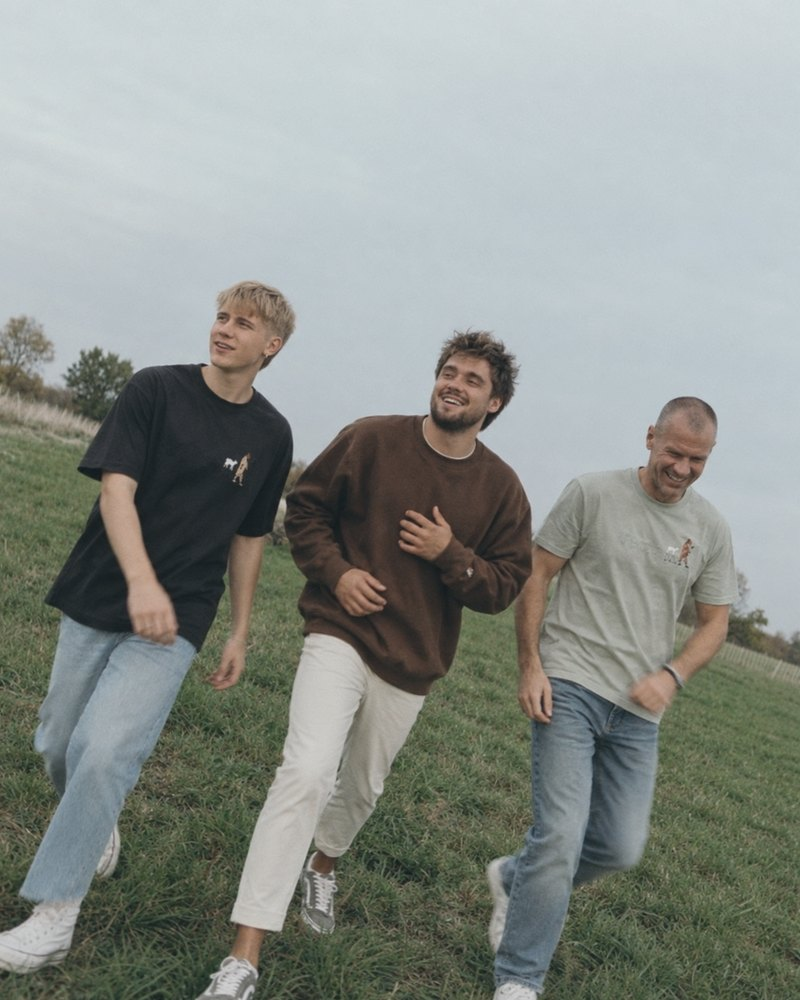
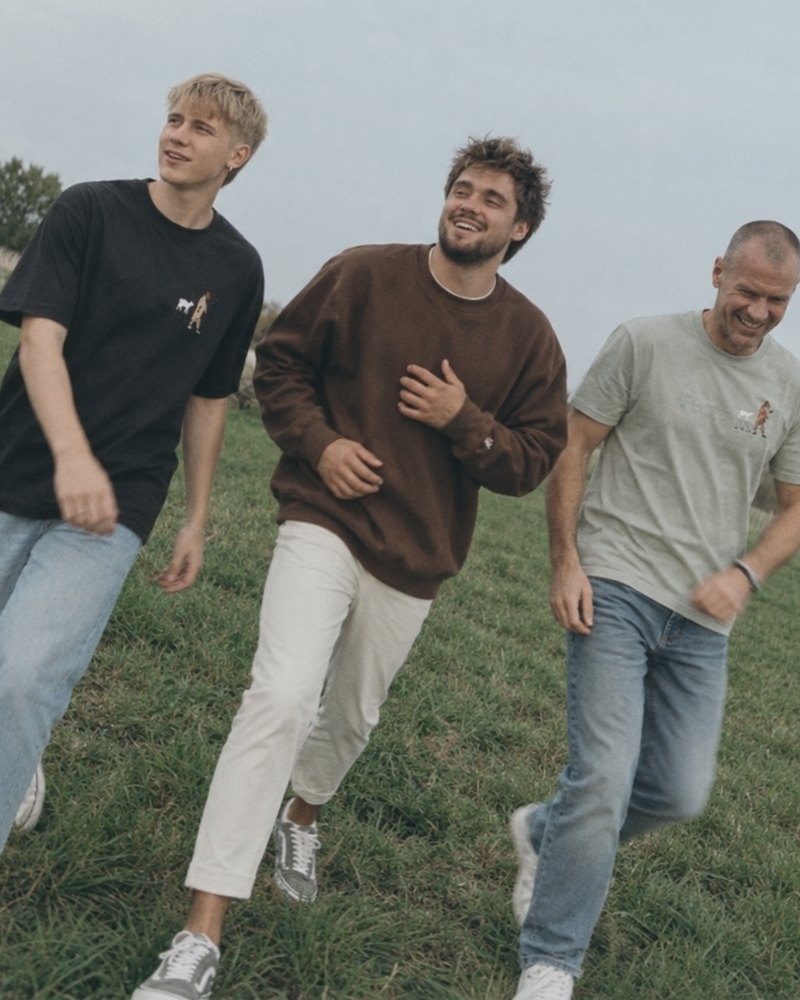
Program stacks: less overlap, layer order per feedback, tighter field crop

diff --git a/index.html b/index.html
@@ -497,36 +497,22 @@
     }
 
     /* overlapping polaroid stack inside each program day */
+    /* overlapping polaroid stack inside each program day */
     .snaps {
       position: relative;
       width: 100%;
       max-width: 340px;
       margin: 0 auto var(--s3);
-      aspect-ratio: 1 / 1.05;
-    }
-
-    .snaps-3 {
       aspect-ratio: 1 / 1.22;
     }
 
-    /* desktop: equal stack heights so the three day titles line up */
-    @media (min-width: 1000px) {
-      .snaps-2 {
-        aspect-ratio: 1 / 1.22;
-      }
-
-      .snaps-2 .snap:nth-child(1) {
-        top: 6%;
-      }
-
-      .snaps-2 .snap:nth-child(2) {
-        bottom: 6%;
-      }
+    .snaps-3 {
+      aspect-ratio: 1 / 1.42;
     }
 
     .snap {
       position: absolute;
-      width: 62%;
+      width: 58%;
       padding: 6px 6px 22px;
       background: var(--foam);
       box-shadow: 0 10px 24px rgba(20, 40, 50, 0.18);
@@ -538,37 +524,60 @@
       background-position: center;
     }
 
+    /* desktop: all stacks the same height so the day titles line up */
+    @media (min-width: 1000px) {
+      .snaps-2 {
+        aspect-ratio: 1 / 1.42;
+      }
+
+      .snaps-2 .snap:nth-child(1) {
+        top: 12%;
+      }
+
+      .snaps-2 .snap:nth-child(2) {
+        top: 40%;
+      }
+    }
+
+    /* two photos: left one on top, right one lower and underneath */
     .snaps-2 .snap:nth-child(1) {
       left: 0;
       top: 0;
+      z-index: 2;
       transform: rotate(-4deg);
     }
 
     .snaps-2 .snap:nth-child(2) {
       right: 0;
-      bottom: 0;
+      top: 26%;
+      width: 54%;
+      z-index: 1;
       transform: rotate(4deg);
     }
 
+    /* three photos: guests top-left, girls further right, pool lowest and underneath */
     .snaps-3 .snap {
-      width: 56%;
+      width: 54%;
     }
 
     .snaps-3 .snap:nth-child(1) {
       left: 0;
       top: 0;
+      z-index: 3;
       transform: rotate(-5deg);
     }
 
     .snaps-3 .snap:nth-child(2) {
-      right: 0;
-      top: 22%;
+      right: -3%;
+      top: 15%;
+      z-index: 2;
       transform: rotate(4deg);
     }
 
     .snaps-3 .snap:nth-child(3) {
-      left: 14%;
-      bottom: 0;
+      left: 16%;
+      top: 47%;
+      z-index: 1;
       transform: rotate(-2deg);
     }
 
